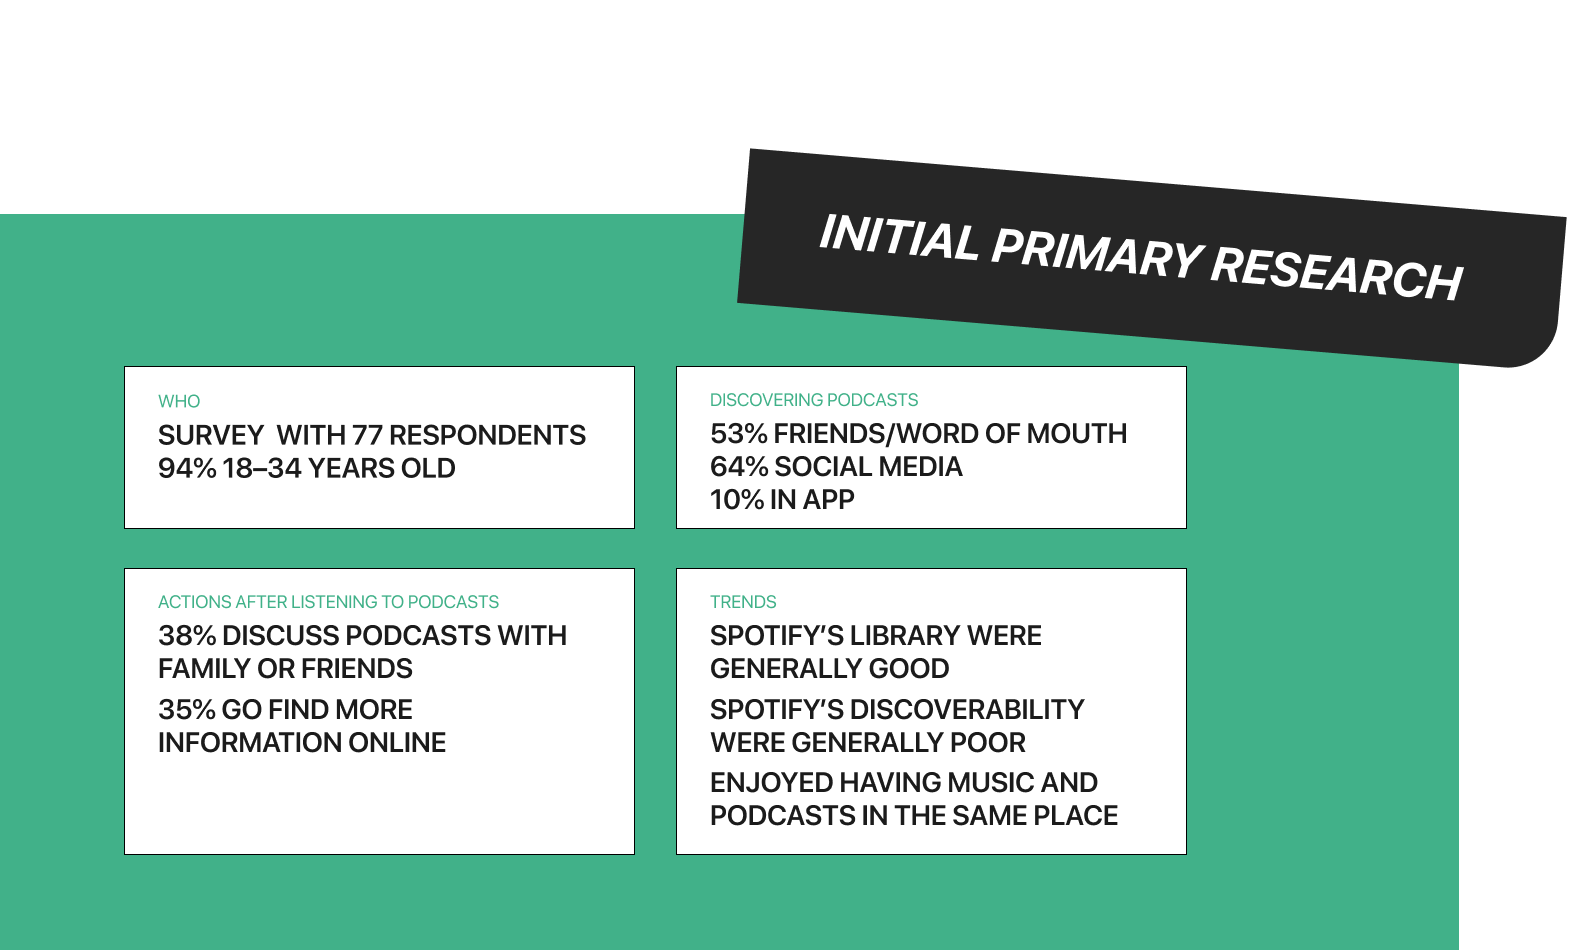
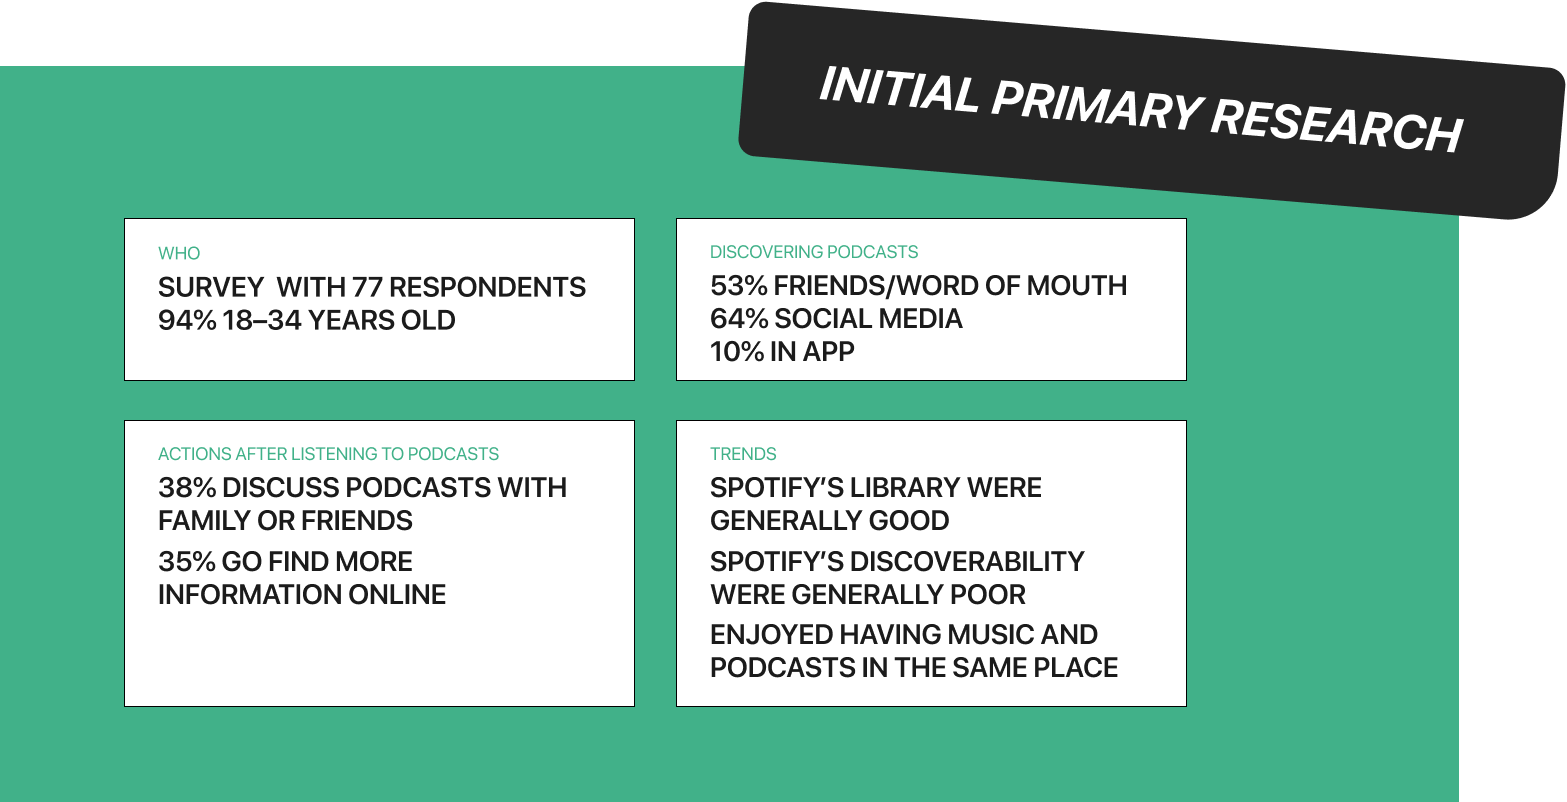
update

diff --git a/spotify-collections.html b/spotify-collections.html
@@ -34,7 +34,7 @@
 	<div class="dark">
 		<section class="section60">
 		
-			<div id="spacer12">
+			<div class="spacer12">
 			</div>
 			
 			<h1 id="casestudy_name">
@@ -44,7 +44,7 @@
 				<span class="bold">Spotify Collections</span> is a feature design solution for Spotify's mobile podcast consumption experience that empowers engaged listeners to accomplish more directly within the app. Spotify's surge towards becoming a leader in podcast platforms has left much to be desired within their interface. Spotify's lacklustre integration of longform media on the platform has created an opportunity to design features specifically catered towards podcast listeners, while continuing to demonstrate their excellence in brand and user experience.
 			</p>
 			
-			<div id="spacer2">
+			<div class="spacer2">
 			</div>
 			
 			<div class="border75">
@@ -58,7 +58,7 @@
 			</ul>
 			</div>
 			
-			<div id="spacer2">
+			<div class="spacer2">
 			</div>
 
 			<h2 class="">
@@ -69,7 +69,7 @@
 				We chose to conduct our study on the emerging podcast market. The rising popularity of consuming podcasts led to an influx of companies creating platforms for longform audio media. Among those companies is Spotify, adding podcasts to their audio platform and purchasing exclusive rights to the hottest podcasts like The Joe Rogan Experience. We noticed a discrepancy between the quality of experience between the music and podcast sides of Spotify, as well as a distinct lack of features supporting engaged podcast listeners. Given Spotify’s strong brand as a leader in music streaming, we decided to take a deep dive on how Spotify could better align their podcast experience with business and user goals.
 			</p>
 			
-			<div id="spacer2">
+			<div class="spacer2">
 			</div>
 
 			<h2 class="">
@@ -121,7 +121,10 @@
 	</div>
 	<div class="light">	
 		<section class="section60 casestudy_research">
-		
+			
+			<div class="spacer4">
+			</div>
+			
 			<h2 class="">
 				Defining the Audience
 			</h2>
@@ -310,7 +313,9 @@
 	<div class="dark">
 	
 		<section class="section60" id="proposed_solution">
-
+			
+			<div class="spacer4">
+			</div>
 
 			<img src="img/casestudy/spotify/feature_breakdown.png" class="casestudy_image">
 			
@@ -338,10 +343,14 @@
 			  </div>
 			</div>
 			
+			
 			  <p class="casestudy_bodytext">
 					Click <a href="https://www.figma.com/proto/9VUNGazycWksNshtCbXBLz/IAT-438-%2F-FINAL-WEEK-(Copy)?page-id=1%3A2&node-id=1%3A3110&viewport=333%2C48%2C0.07&scaling=scale-down&starting-point-node-id=1%3A4677&show-proto-sidebar=1
 ">here</a> to interact with the final prototype in Figma.
 				</p>
+				
+			<div class="spacer4">
+			</div>
 			
 			<img src="img/casestudy/spotify/notes1.png" class="casestudy_image">
 			<h2 class="">
@@ -362,6 +371,8 @@
 				The value of notes is derived from its flexibility and seamless integration. Add bookmarks, create sound clips, jot down memos... or don't! The choice is yours, and their integration will not disturb your regular listening experience.
 			</p>
 			
+			<div class="spacer4">
+			</div>
 			
 			<img src="img/casestudy/spotify/collections1.png" class="casestudy_image">
 			
@@ -378,7 +389,10 @@
 				Collections are music playlists reimagined for podcasts, requiring more space for content and collaboration. Collections allow users to become creators, either for themselves or as a social outlet.
 			</p>
 			
-
+			
+			<div class="spacer4">
+			</div>
+			
 			<img src="img/casestudy/spotify/infocards1.png" class="casestudy_image">
 			<h2 class="">
 				<sup>3</sup>Information Cards
@@ -391,6 +405,10 @@
 			<img src="img/casestudy/spotify/infocards2.png" class="casestudy_image">
 			<img src="img/casestudy/spotify/infocards3.png" class="casestudy_image">
 
+
+			<div class="spacer4">
+			</div>
+			
 			<h2 class="">
 				Reflection
 			</h2>
@@ -402,6 +420,8 @@
 				If given a chance to do the project again, I would choose to be more experimental with interactions and solutions. Spotify boasts a creative and innovative brand, and thus there is an enourmous amount of room for experimentation and inginuity.
 			</p>
 			
+			<div class="spacer4">
+			</div>
 			
 			<a class="return_button" href="index.html">Take me back</a>
 

diff --git a/index.html b/index.html
@@ -33,7 +33,7 @@
 
 	<section class="section60">
 	
-		<div id="spacer12">
+		<div class="spacer12">
 		</div>
 		
 		
@@ -48,9 +48,9 @@
 			I am a recent graduate of Simon Fraser University's School of Interactive Art and Technology. I am passionate about User Experience design because of the intriguing intersection between business strategy, which enables change, and design thinking, which generates meaning. The cross between the two is a challenging but rewarding area that inspires and motivates me to be creative and to help shape the world we live in.
 		</p>
 		
-		<div id="spacer4">
+		<div class="spacer4">
 		</div>
-		<div id="spacer4">
+		<div class="spacer4">
 		</div>
 
 	</section>
@@ -62,7 +62,7 @@
 		
 	</section>
 	
-	<div id="spacer4">
+	<div class="spacer4">
 	</div>
 
 	

diff --git a/css/style.css b/css/style.css
@@ -149,15 +149,15 @@ sup {
 
 
 /* START INTRO SECTION FORMAT */
-#spacer12 {
+.spacer12 {
 	height: 12em;
 }
 
-#spacer4 {
+.spacer4 {
 	height: 4em;
 }
 
-#spacer2 {
+.spacer2 {
 	height: 2em;
 }
 

diff --git a/moment-track.html b/moment-track.html
@@ -34,7 +34,7 @@
 	<div class="dark">
 		<section class="section60">
 		
-			<div id="spacer12">
+			<div class="spacer12">
 			</div>
 			
 			<h1 id="casestudy_name">
